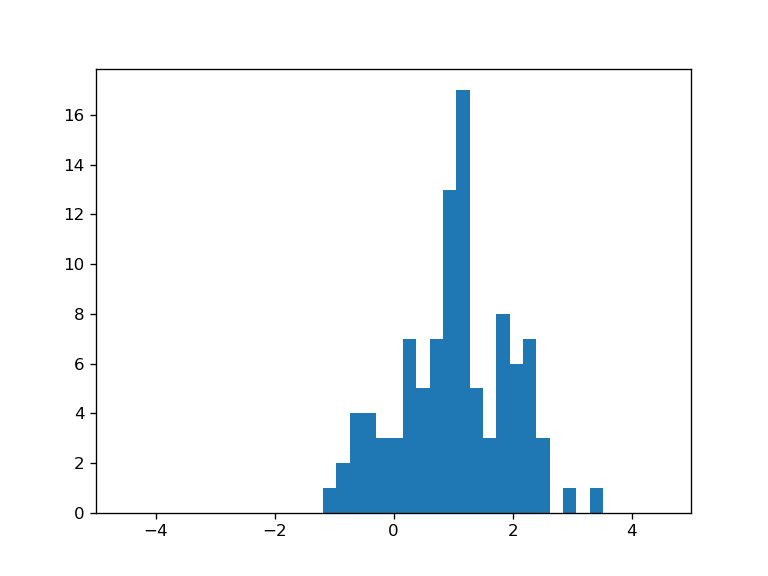
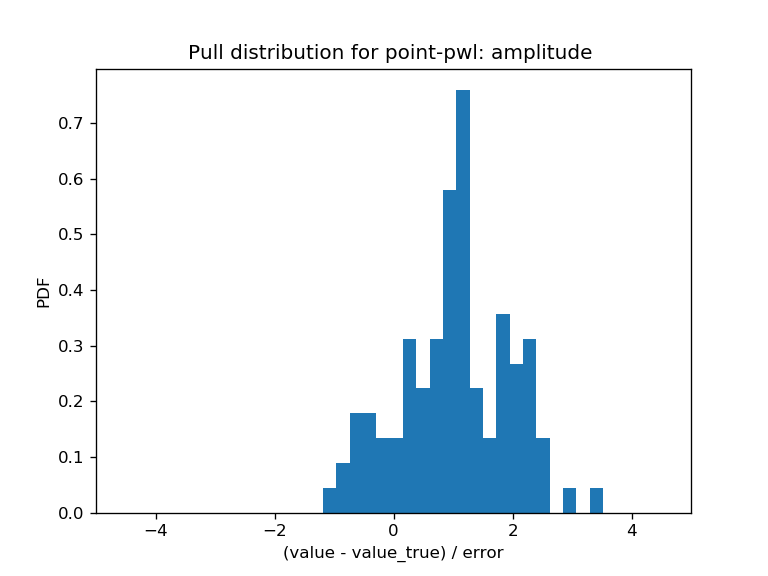
Add example plots

diff --git a/validation/event-sampling/make.py b/validation/event-sampling/make.py
@@ -330,12 +330,9 @@ def fit_gather(model_name):
 @cli.command("plot-results", help="Plot results for given model")
 @click.argument("model", type=click.Choice(list(AVAILABLE_MODELS) + ["all"]))
 @click.option(
-              "--obs_id", default=1, nargs=1, help="ObsID of the observation", type=int
+              "--obs-ids", default="0", nargs=1, help="Which observation to choose.", type=str
               )
-@click.option(
-              "--obs_id_all", default='False', nargs=1, help="Iterate over N observations"
-              )
-def plot_results_cmd(model, obs_id, obs_id_all):
+def plot_results_cmd(model, obs_ids):
     if model == "all":
         models = AVAILABLE_MODELS
     else:
@@ -343,18 +340,10 @@ def plot_results_cmd(model, obs_id, obs_id_all):
 
     filename_dataset = get_filename_dataset(LIVETIME)
 
-    if obs_id_all == 'False':
-        OBS_ID = '{:04d}'.format(obs_id)
-        for model in models:
+    for model in models:
+        for obs_id in parse_obs_ids(obs_ids, model):
             filename_model = BASE_PATH / f"models/{model}.yaml"
-            plot_results(filename_model=filename_model, filename_dataset=filename_dataset, obs_id=OBS_ID)
-
-    else:
-        for obsid in np.arange(obs_id):
-            OBS_ID = '{:04d}'.format(obsid)
-            for model in models:
-                filename_model = BASE_PATH / f"models/{model}.yaml"
-                plot_results(filename_model=filename_model, filename_dataset=filename_dataset, obs_id=OBS_ID)
+            plot_results(filename_model=filename_model, filename_dataset=filename_dataset, obs_id=obs_id)
 
 
 def save_figure(filename):
@@ -377,7 +366,7 @@ def plot_spectra(model, model_best_fit, obs_id):
     model_best_fit.spectral_model.plot_error(energy_range=(0.1, 300) * u.TeV, ax=ax)
     ax.legend()
 
-    filename = f"results/models/{model.name}/plots/spectra_{obs_id}.png"
+    filename = f"results/models/{model.name}/plots/spectra/spectra_{obs_id:04d}.png"
     save_figure(filename)
 
 
@@ -391,7 +380,7 @@ def plot_residuals(dataset, obs_id):
         region = spatial_model.to_region()
 
     dataset.plot_residuals(method="diff/sqrt(model)", vmin=-0.5, vmax=0.5, region=region, figsize=(10, 4))
-    filename = f"results/models/{model.name}/plots/residuals_{obs_id}.png"
+    filename = f"results/models/{model.name}/plots/residuals/residuals_{obs_id:04d}.png"
     save_figure(filename)
 
 
@@ -418,7 +407,7 @@ def plot_residual_distribution(dataset, obs_id):
     xmin, xmax = np.min(sig_resid), np.max(sig_resid)
     plt.xlim(xmin, xmax)
 
-    filename = f"results/models/{model.name}/plots/residuals-distribution_{obs_id}.png"
+    filename = f"results/models/{model.name}/plots/residuals-distribution/residuals-distribution_{obs_id:04d}.png"
     save_figure(filename)
 
 
@@ -457,7 +446,7 @@ def plot_results(filename_model, obs_id, filename_dataset=None):
     model = SkyModels.read(filename_model)
 
     path = get_filename_best_fit_model(filename_model, obs_id)
-    model_best_fit = read_best_fit_model(path, obs_id)
+    model_best_fit = read_best_fit_model(path)
 
     plot_spectra(model[0], model_best_fit[0], obs_id)
 
@@ -499,8 +488,11 @@ def plot_pull_distribution(model_name):
 
         pull = (values - par.value) / values_err
 
-        plt.hist(pull, bins=21)
+        plt.hist(pull, bins=21, normed=True)
         plt.xlim(-5, 5)
+        plt.xlabel("(value - value_true) / error")
+        plt.ylabel("PDF")
+        plt.title(f"Pull distribution for {model_name}: {name} ")
         filename = f"results/models/{model_name}/plots/pull-distribution-{name}.png"
         save_figure(filename)
 
